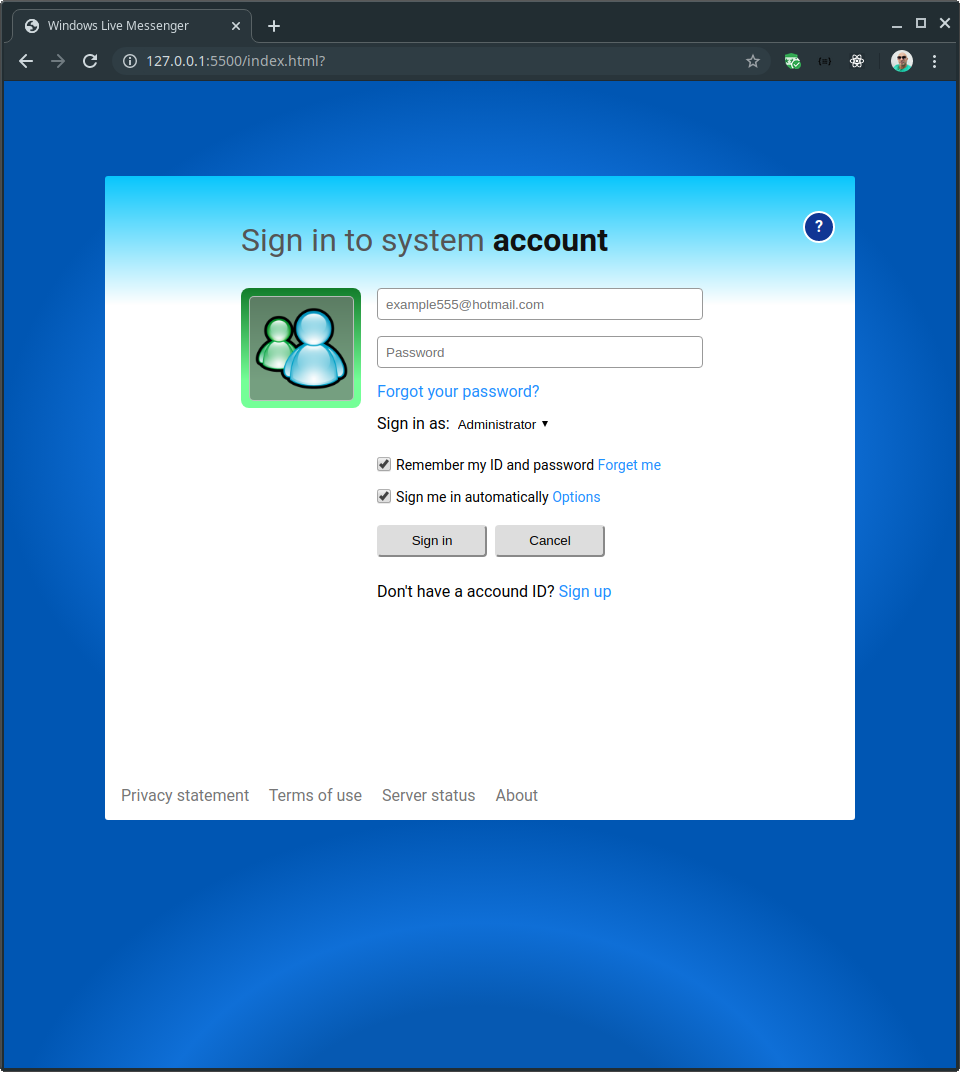
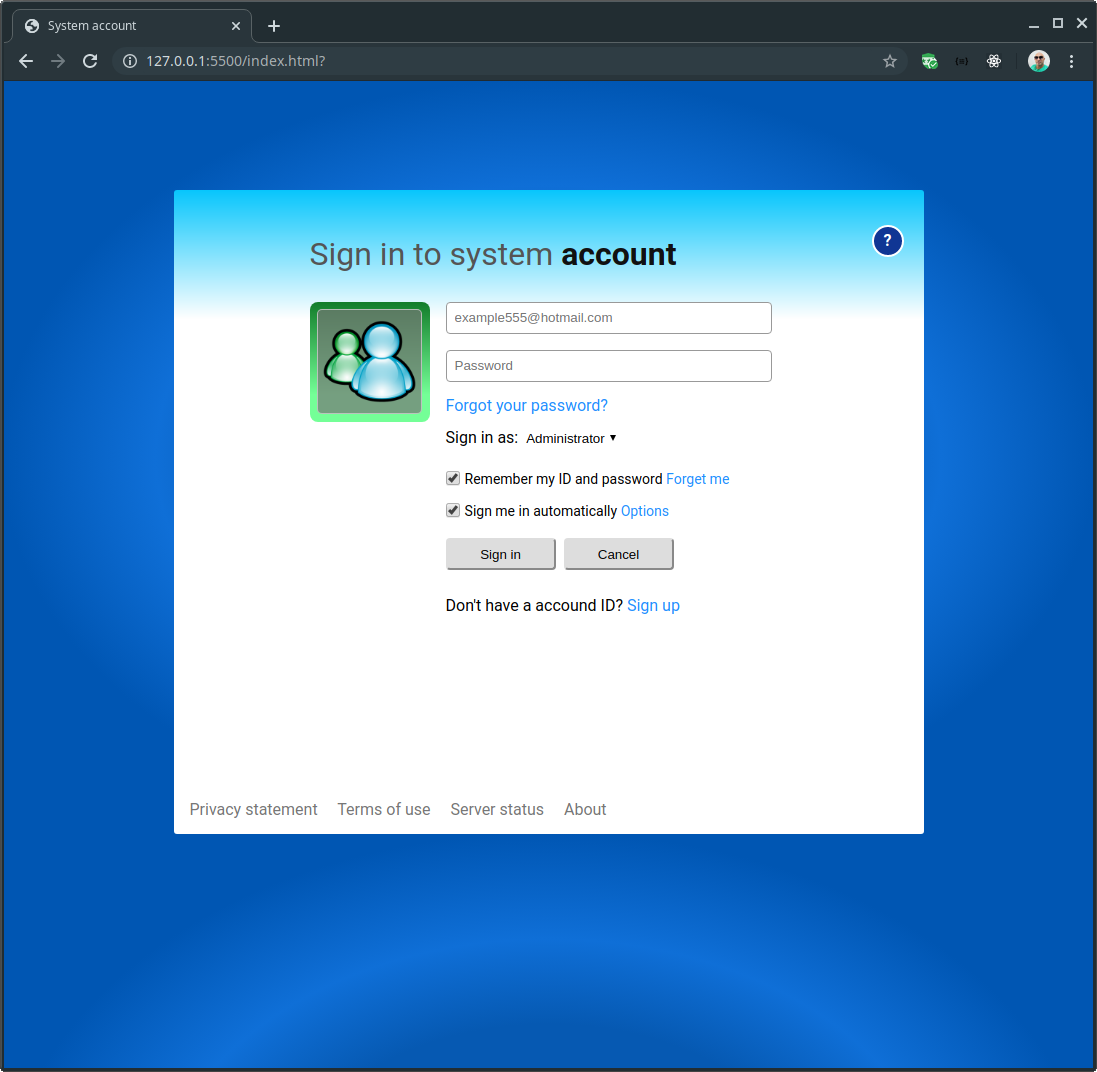
Update

Changed region(s): [[0.0938, 0.1539, 0.9062, 0.8004], [0.0, 0.0, 0.3438, 0.0616], [0.7812, 0.0, 0.9688, 0.0616]]

diff --git a/loginpage03/index.html b/loginpage03/index.html
@@ -6,7 +6,7 @@
   <meta name="viewport" content="width=device-width, initial-scale=1.0">
   <link rel="stylesheet" href="reset.css">
   <link rel="stylesheet" href="styles.css">
-  <title>Windows Live Messenger</title>
+  <title>System account</title>
 </head>
 
 <body>
